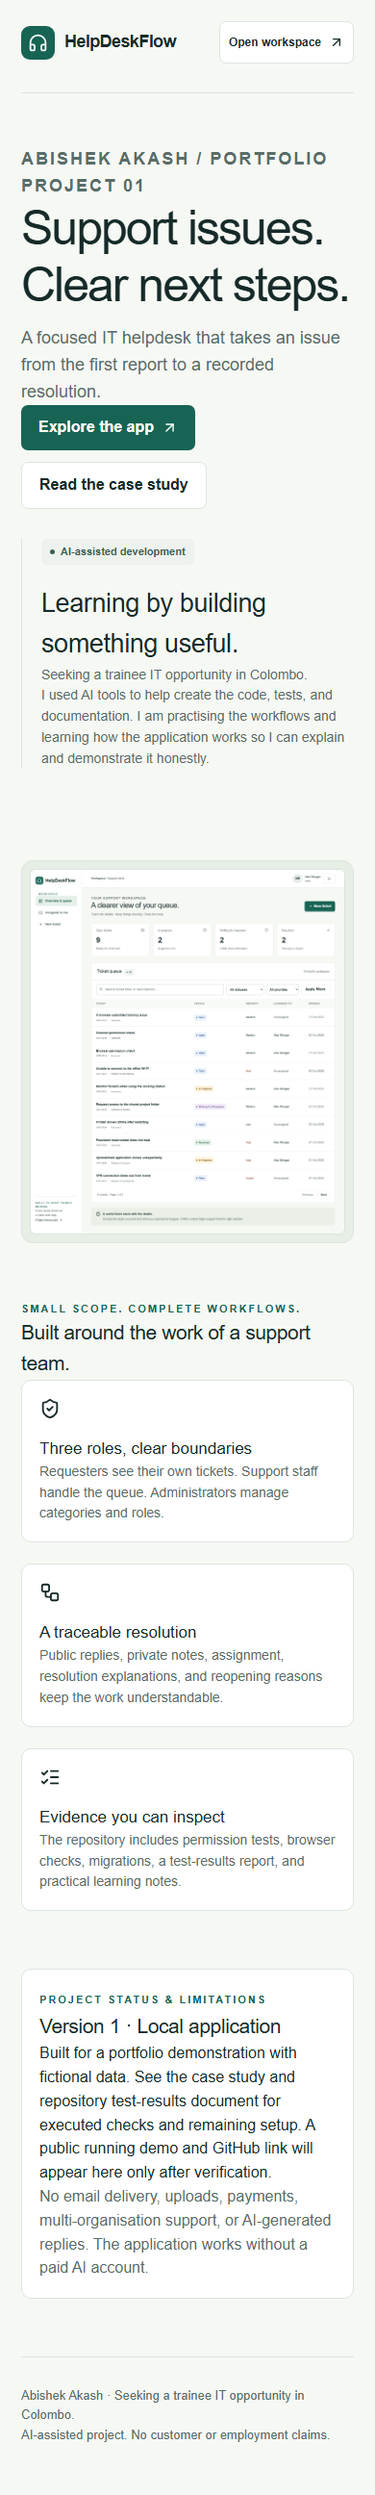
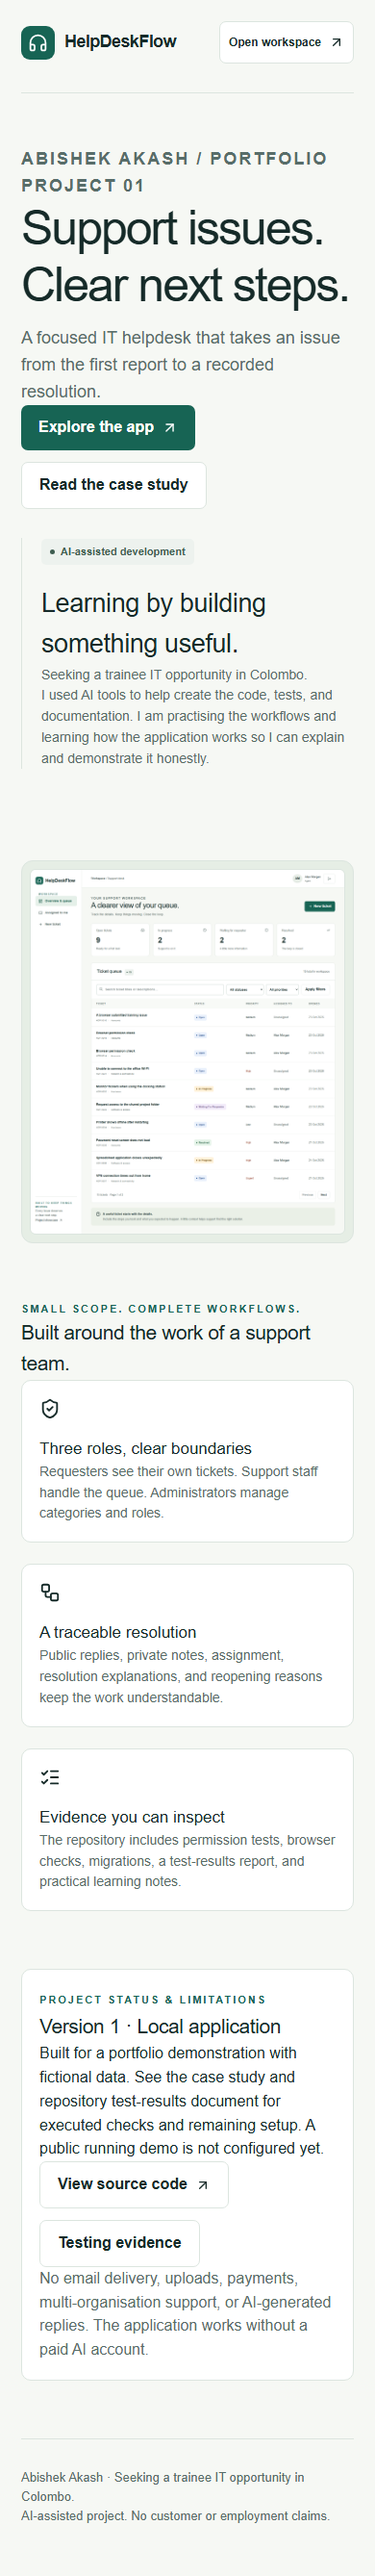
docs: record verified PostgreSQL checks and GitHub delivery [skip ci]

diff --git a/docs/test-results.md b/docs/test-results.md
@@ -1,6 +1,6 @@
 # Test results
 
-Tested version: HelpDeskFlow **1.0.0**, 23 October 2026. Repository history identifies the delivered revision. These are executed checks, not an assumed checklist.
+Tested version: HelpDeskFlow **1.0.0**, 23 October 2026, implementation commit `cc04288fa0cc6f88d2d8522764d4985b14b69cd3`. The later delivery-report commit updates documentation and refreshes screenshots without application code changes. These are executed checks, not an assumed checklist.
 
 ## Local environment
 
@@ -23,9 +23,13 @@ Windows; Node.js 24.17.0; npm 11.13.0; Next.js 16.4.2; Prisma 7.10.1; Better Aut
 | Full dependency audit | Findings remain | Five high findings in development lint dependency chain |
 | Staged-file review | Passed before initial publication | Private passwords, session secret, key/token patterns, excluded paths and screenshots reviewed |
 | GitHub repository creation | Passed | Personal owner mrabishekraj2004-cpu verified; unused name; public repository created |
-| GitHub push and remote contents | Pending verification | Repository creation alone is not a verified source upload |
-| Ordinary PostgreSQL CI | Not run yet | Workflow supplied with disposable PostgreSQL 17 |
+| GitHub push and remote contents | Passed | Remote main matched implementation commit; required source, migration, lockfile, tests, docs and screenshots verified; excluded paths absent |
+| Ordinary PostgreSQL CI | Passed | [GitHub Actions run](https://github.com/mrabishekraj2004-cpu/helpdeskflow-portfolio/actions/runs/39907566262): every job step succeeded |
 | Live application hosting | Not run | Authorised host/database connection not configured |
+
+## PostgreSQL 17 verification
+
+GitHub's Ubuntu runner used Node.js 24 and a disposable PostgreSQL 17 container. Clean `npm ci`, client generation, migration, transactional seed, ten service tests, lint, production build, type check, Chromium installation and all three HTTP/browser tests completed successfully. This verifies ordinary PostgreSQL functional behaviour as well as the local PGlite run. It does not establish a running public demo, production load capacity or deployment readiness. The CI service's passwordless trust configuration is confined to its disposable test job and is not a hosting configuration. Private seed credentials and traces were not uploaded as artifacts.
 
 ## Service scenarios executed
 

diff --git a/docs/handover.md b/docs/handover.md
@@ -12,7 +12,9 @@ Private accounts are in .local/demo-credentials.json, which is not on GitHub. Re
 
 [Actual test results](test-results.md), [user guide and screenshots](user-guide.md), [three-minute demo](demo-script.md), [learning notes](learning-notes.md).
 
-Repository: https://github.com/mrabishekraj2004-cpu/helpdeskflow-portfolio. Upload verification is recorded separately in the results report.
+Verified repository: https://github.com/mrabishekraj2004-cpu/helpdeskflow-portfolio. Source, migrations, lockfile, tests, documentation and screenshots are uploaded. Environment secrets, private credentials and database data are excluded.
+
+Ten service tests and three HTTP/browser tests passed, along with lint, type checking, production build and database restart persistence. The complete automated check also passed on PostgreSQL 17 in [GitHub Actions](https://github.com/mrabishekraj2004-cpu/helpdeskflow-portfolio/actions/runs/39907566262).
 
 ## Remaining setup
 

diff --git a/docs/case-study.md b/docs/case-study.md
@@ -22,4 +22,4 @@ Read [test results](test-results.md) for executed service, HTTP, browser, type, 
 
 ## Limitations
 
-Fictional data only; private development passwords. No email, uploads, organisations, paid AI integration, or automatic replies. Development verification uses PGlite and must be followed by ordinary PostgreSQL and production-host checks before real use. A GitHub source upload is distinct from a live application deployment. This project supports interview discussion; it does not guarantee employment.
+Fictional data only; private development passwords. No email, uploads, organisations, paid AI integration, or automatic replies. Functional checks passed locally on PGlite and in GitHub Actions on PostgreSQL 17. Production-host, load and independent security checks remain. A verified GitHub source upload is distinct from a live application deployment. This project supports interview discussion; it does not guarantee employment.

diff --git a/CHECKLIST.md b/CHECKLIST.md
@@ -6,8 +6,8 @@
 4. [x] Verify saved data survives a local database restart.
 5. [x] Deliver screenshots, public portfolio, requirements, architecture, tests, bug log, guides, case study, demo script and learning notes.
 6. [x] Verify GitHub owner/name availability and create authorised public repository.
-7. [ ] Finish push and remote verification after staged secret review.
+7. [x] Push and verify remote files after staged secret review.
 8. [x] Prepare Next.js + managed PostgreSQL hosting; actual deployment needs host/database access.
-9. [ ] Inspect PostgreSQL GitHub Actions run after push and record actual outcome.
+9. [x] Inspect PostgreSQL GitHub Actions run: every step passed; result linked in test-results.md.
 
 Plan followed: small monolith, current database permissions enforced on the server. Routine fixes are documented. Optional AI remains deferred; no paid service is needed to run the app.

diff --git a/docs/architecture.md b/docs/architecture.md
@@ -38,4 +38,4 @@ Creation → Open → support assignment and status updates → Resolved with ex
 
 ## Operational limits
 
-The development PGlite socket server uses a single PostgreSQL engine with connection multiplexing. It is useful for local functional checks; ordinary PostgreSQL must be verified separately before production. Rate limiting is in memory and needs shared storage when scaling. No email or external AI service is called.
+The development PGlite socket server uses a single PostgreSQL engine with connection multiplexing. Functional checks also passed against ordinary PostgreSQL 17 in GitHub Actions. Production-host and concurrency/load testing remain separate steps. Rate limiting is in memory and needs shared storage when scaling. No email or external AI service is called.
